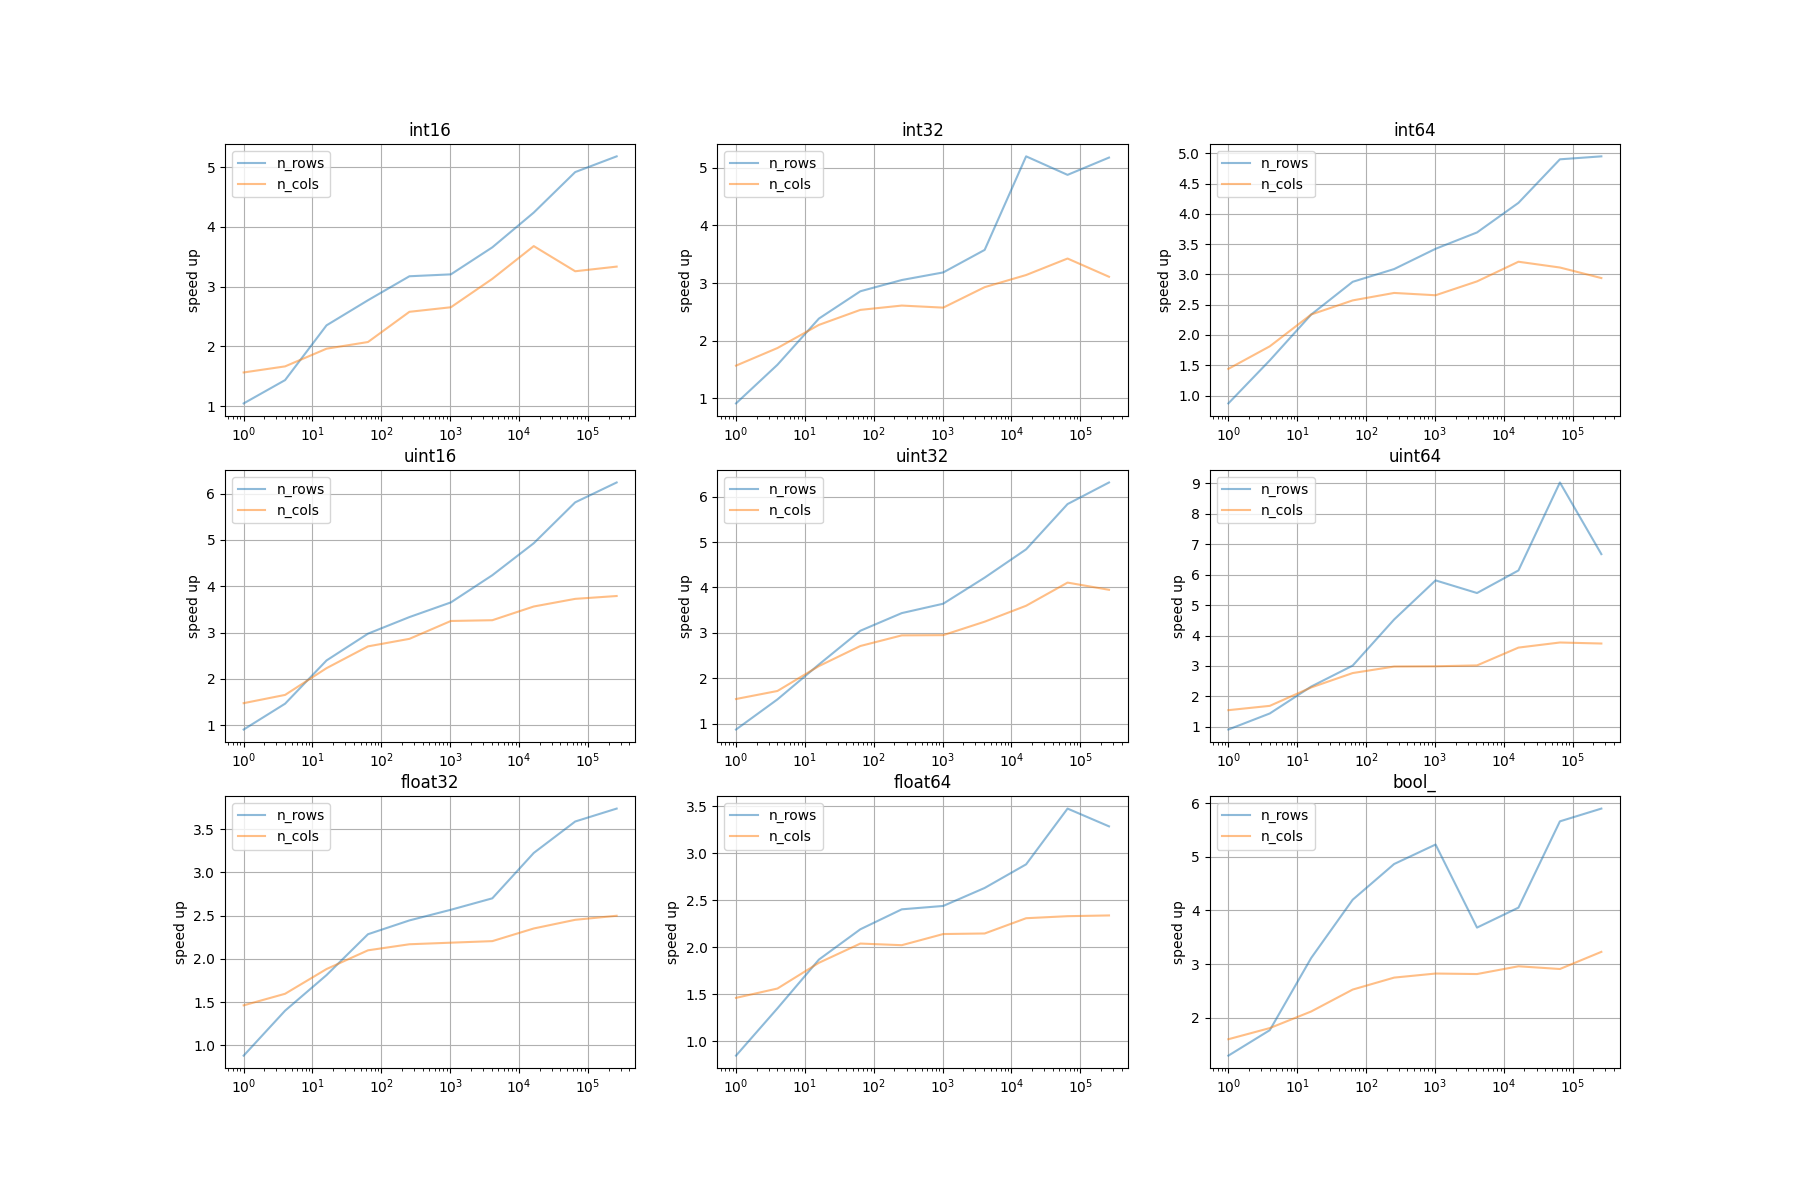
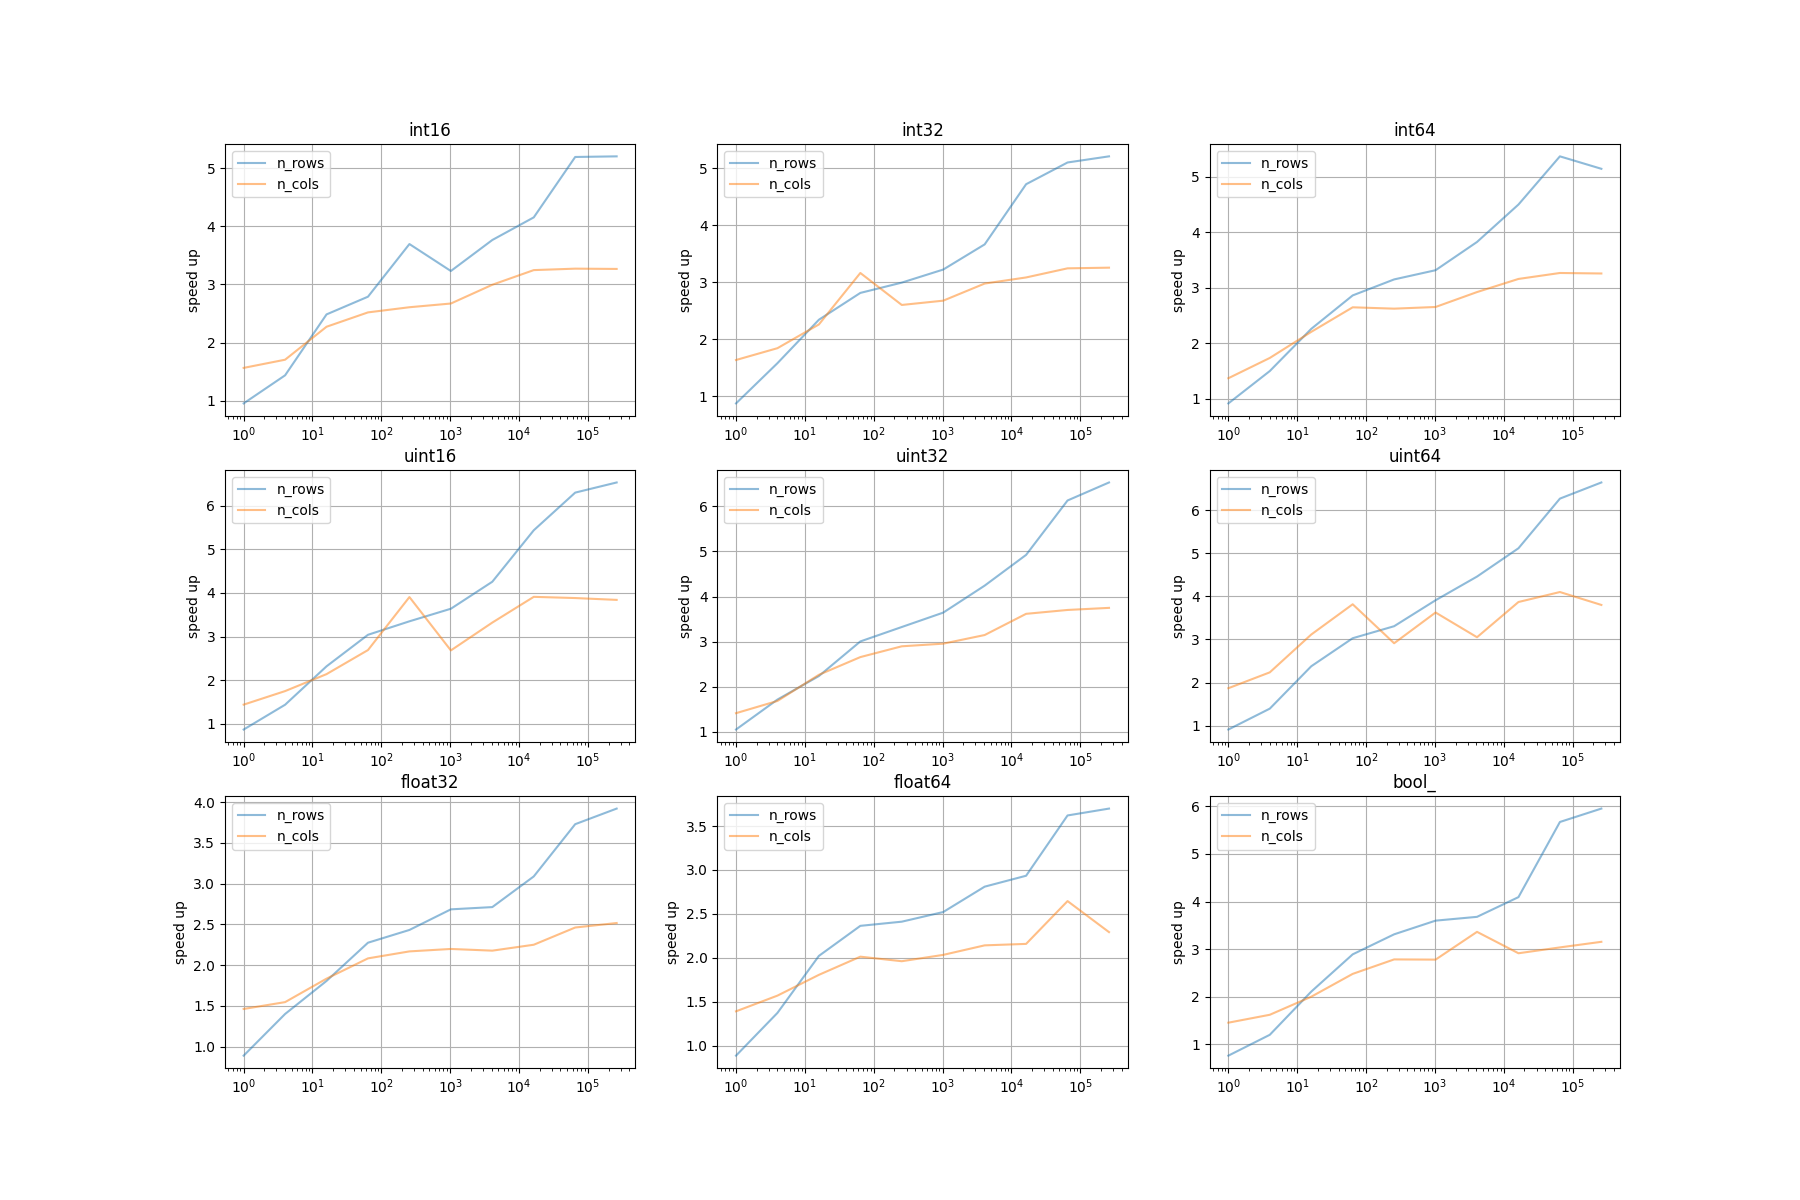
update README

diff --git a/profile/profile.py b/profile/profile.py
@@ -150,7 +150,7 @@ def run_profile_2d_array(dtypes: Sequence[type]):
         times_cols = get_times_2d_array([10], n_cols, dtype)
         ax = fig.add_subplot(gs[i // PLOT_COLS, i % PLOT_COLS])
         plot_times_2d_array(times_rows, times_cols, ax, dtype.__name__)
-    plt.savefig("profile/2darr_profile.png")
+    plt.savefig("profile/2darr_profile.png", pad_inches = 0) 
 
 
 def run_profile_transposed_arrays(dtypes: Sequence[type]):
@@ -164,7 +164,7 @@ def run_profile_transposed_arrays(dtypes: Sequence[type]):
     plt.legend(["n_rows"])
     plt.title([dtype.__name__ for dtype in dtypes], fontsize=10)
     plt.ylabel("speed up")
-    plt.savefig("profile/transpose_profile.png")
+    plt.savefig("profile/transpose_profile.png", pad_inches = 0)
 
         
 if __name__ == "__main__":

diff --git a/README.md b/README.md
@@ -1,74 +1,126 @@
 # serde-numpy
 
-Deserialize a subset of json keys directly into numpy arrays.
+serde-numpy is a library for deseriliazing JSON (or MessagePack) directly into numpy arrays.
 
-```bash
-poetry install
-poetry run maturin develop
-```
-
-Example usage (eventually):
+## Motivation
+If you've ever done something like this in your code:
 
 ```python
-import serde_numpy
+data = json.load(open("data.json"))
 
-json_str = b"""
-{'name': 'vill',
- 'version': 3000,
- 'arr1': [[1.254439975231648, -0.6893827594332794],
-          [-0.2922560025562806, 0.5204819306523419]],
- 'arr2': [[-100, -25], [-41, -62]],
- 'stream1': [[-1.720294114558863, 0.5990469735869592, 0.0506514091042812, 0.7204746283872987, 1.5351637640639662],
-             [72, 45, -58, -16, -14],
-             [true, false, false, true, false]],
- 'stream2': [[-2.1727126743596266, false, 'a'],
-             [-0.06389102863189458, true, 'b'],
-             [1.3716941547285826, true, 'c']],
- 'nest': {'is_nest': true,
-          'nestiness': 0.9999,
-          'stream3': [[-0.11954010897451912, 28], 
-                      [0.21599243355210992, 9]],
-          'arr3': [true, false, true],
-          'unused_key': 'a'}}"""
+arr = np.array(data["x"])
+```
+then this library does it faster by using less array allocations and less python.
 
-structure = {
-    "name": str, 
-    "version": int,
-    "arr1": np.float32, # equivalent to calling np.array(x["arr1"], dtype=np.float32)
-    "arr2": np.int64,
-    "stream1": [np.float64, np.int32, np.bool], # for column-wise list of lists
-    "stream2": [[np.float32, np.bool, np.str]], # for row-wise list of lists
-    "nest": {
-        "is_nest": bool,
-        "nestiness": float,
-        "stream3": [[np.float128, np.uint64]],
-        "arr3": np.bool,
-    }
-}
+Speed ups are 1.5x - 8x times faster, depending on array sizes (and CPU), when compared to orjson + numpy.
 
-deserialized = serde_numpy.deserialize(json_str, structure)
-deserialized
-
-{'name': 'vill',
- 'version': 3000,
- 'arr1': np.array([[1.254439975231648, -0.6893827594332794],
-                   [-0.2922560025562806, 0.5204819306523419]]),
- 'arr2': np.array([[-100, -25], [-41, -62]]),
- 'stream1': [np.array([-1.720294114558863, 0.5990469735869592, 0.0506514091042812, 0.7204746283872987, 1.5351637640639662]),
-             np.array([72, 45, -58, -16, -14]),
-             np.array([True, False, False, True, False])],
- 'stream2': [np.array([-2.1727126743596266, -0.06389102863189458, 1.3716941547285826]),
-             np.array([False, True, True]),
-             np.array(['a', 'b', 'c']),
- 'nest': {'is_nest': True,
-          'nestiness': 0.9999,
-          'stream3': [np.array([-0.11954010897451912, 0.21599243355210992]), 
-                      np.array([28, 9])],
-          'arr3': np.array([True, False, True])}}"""
+## Usage
 
 
+The user specifies the numpy dtypes within a `structure` corresponding to the json that they want to deserialize.
 
+### N-dimensional array
+
+A subset of the json's keys are specified in the `structure` which is used to initialize the `NumpyDeserializer` and then that subset of keys are deserialized accordingly:
+
+
+```python
+>>> from serde_numpy import NumpyDeserializer
+>>> 
+>>> json_str = b"""
+... {
+...     "name": "coordinates",
+...     "version": "0.1.0",
+...     "arr": [[1.254439975231648, -0.6893827594332794],
+...             [-0.2922560025562806, 0.5204819306523419]]
+... }
+... """
+>>> 
+>>> structure = {
+...     'name': str,
+...     'arr': np.float32
+... }
+>>> 
+>>> deserializer = NumpyDeserializer.from_dict(structure)
+>>> 
+>>> deserializer.deserialize_json(json_str)
+{'arr': array([[ 1.25444   , -0.68938273],
+               [-0.292256  ,  0.52048194]], dtype=float32), 
+ 'name': 'coordinates'}
 ```
 
-[maturin]: https://github.com/PyO3/maturin
-[poetry]: https://python-poetry.org/
+### Transposed arrays
+
+Sometimes people store data in jsons in a row-wise fashion as opposed to column-wise. Therefore each row can contain multiple dtypes. serde-numpy allows you to specify the types of each row and then deserializes into columns. To tell the numpy deserializer that you want to transpose the columns put square brackets outside either a dictionary `[{key: Type, ...}]` like this example:
+
+```python
+>>> json_str = b"""
+... {
+...     "df": [{"a": 3, "b": 4.23},
+...            {"a": 4, "b": 5.12}]
+... }
+... """
+>>> 
+>>> structure = {"df": [{"a": np.uint16, "b": np.float64}]}
+>>> 
+>>> deserializer = NumpyDeserializer.from_dict(structure)
+>>> 
+>>> deserializer.deserialize_json(json_str)
+{'df': {'b': array([4.23, 5.12]), 'a': array([3, 4], dtype=uint16)}}
+```
+**or** put square brackets outside a list `[[Type, ...]]` of types:
+
+```python
+>>> json_str = b"""
+... {
+...     "df": [["i", true],
+...            ["j", false],
+...            ["k", true]]
+... }
+... """
+>>> 
+>>> structure = {"df": [[str, np.bool_]]}
+>>> 
+>>> deserializer = NumpyDeserializer.from_dict(structure)
+>>> 
+>>> deserializer.deserialize_json(json_str)
+{'df': [['i', 'j', 'k'], array([ True, False,  True])]}
+```
+
+
+### Currently supported types:
+Numpy types:
+- `np.int8`
+- `np.int16`
+- `np.int32`
+- `np.int64`
+- `np.uint8`
+- `np.uint16`
+- `np.uint32`
+- `np.uint64`
+- `np.float32`
+- `np.float64`
+- `np.bool_`
+
+Python types:
+- `int`
+- `float`
+- `str`
+- `dict`
+- `list`
+
+## Benchmarks
+
+All benchmarks were performed on an AMD Ryzen 9 3950X. (Add versions of python, linux, orjson and numpy). Orjson was selected as the comparison as it is the fastest on python json benchmarks and we have also found it to be fastest in practice.
+
+### 2D Array deserialization
+
+Two tests are performed. The number of rows are kept constant at 10 while varying the number of columns **and** the number of columns are kept constant at 10 while varying the number of rows. We compare against `orjson.loads` + `np.array` with the desired data type. Results are presented below for deserializing arrays of various data types:
+
+![alt text](profile/2darr_profile.png "2D Array profiling")
+
+### Transposed arrays deserialization
+
+For this test we test the speed of deserializing multiple data types which have been serialized in a row-wise fashion and converting it to column-wise arrays during deseriliazition.
+
+![alt text](profile/transpose_profile.png "Transpose columns profiling")
